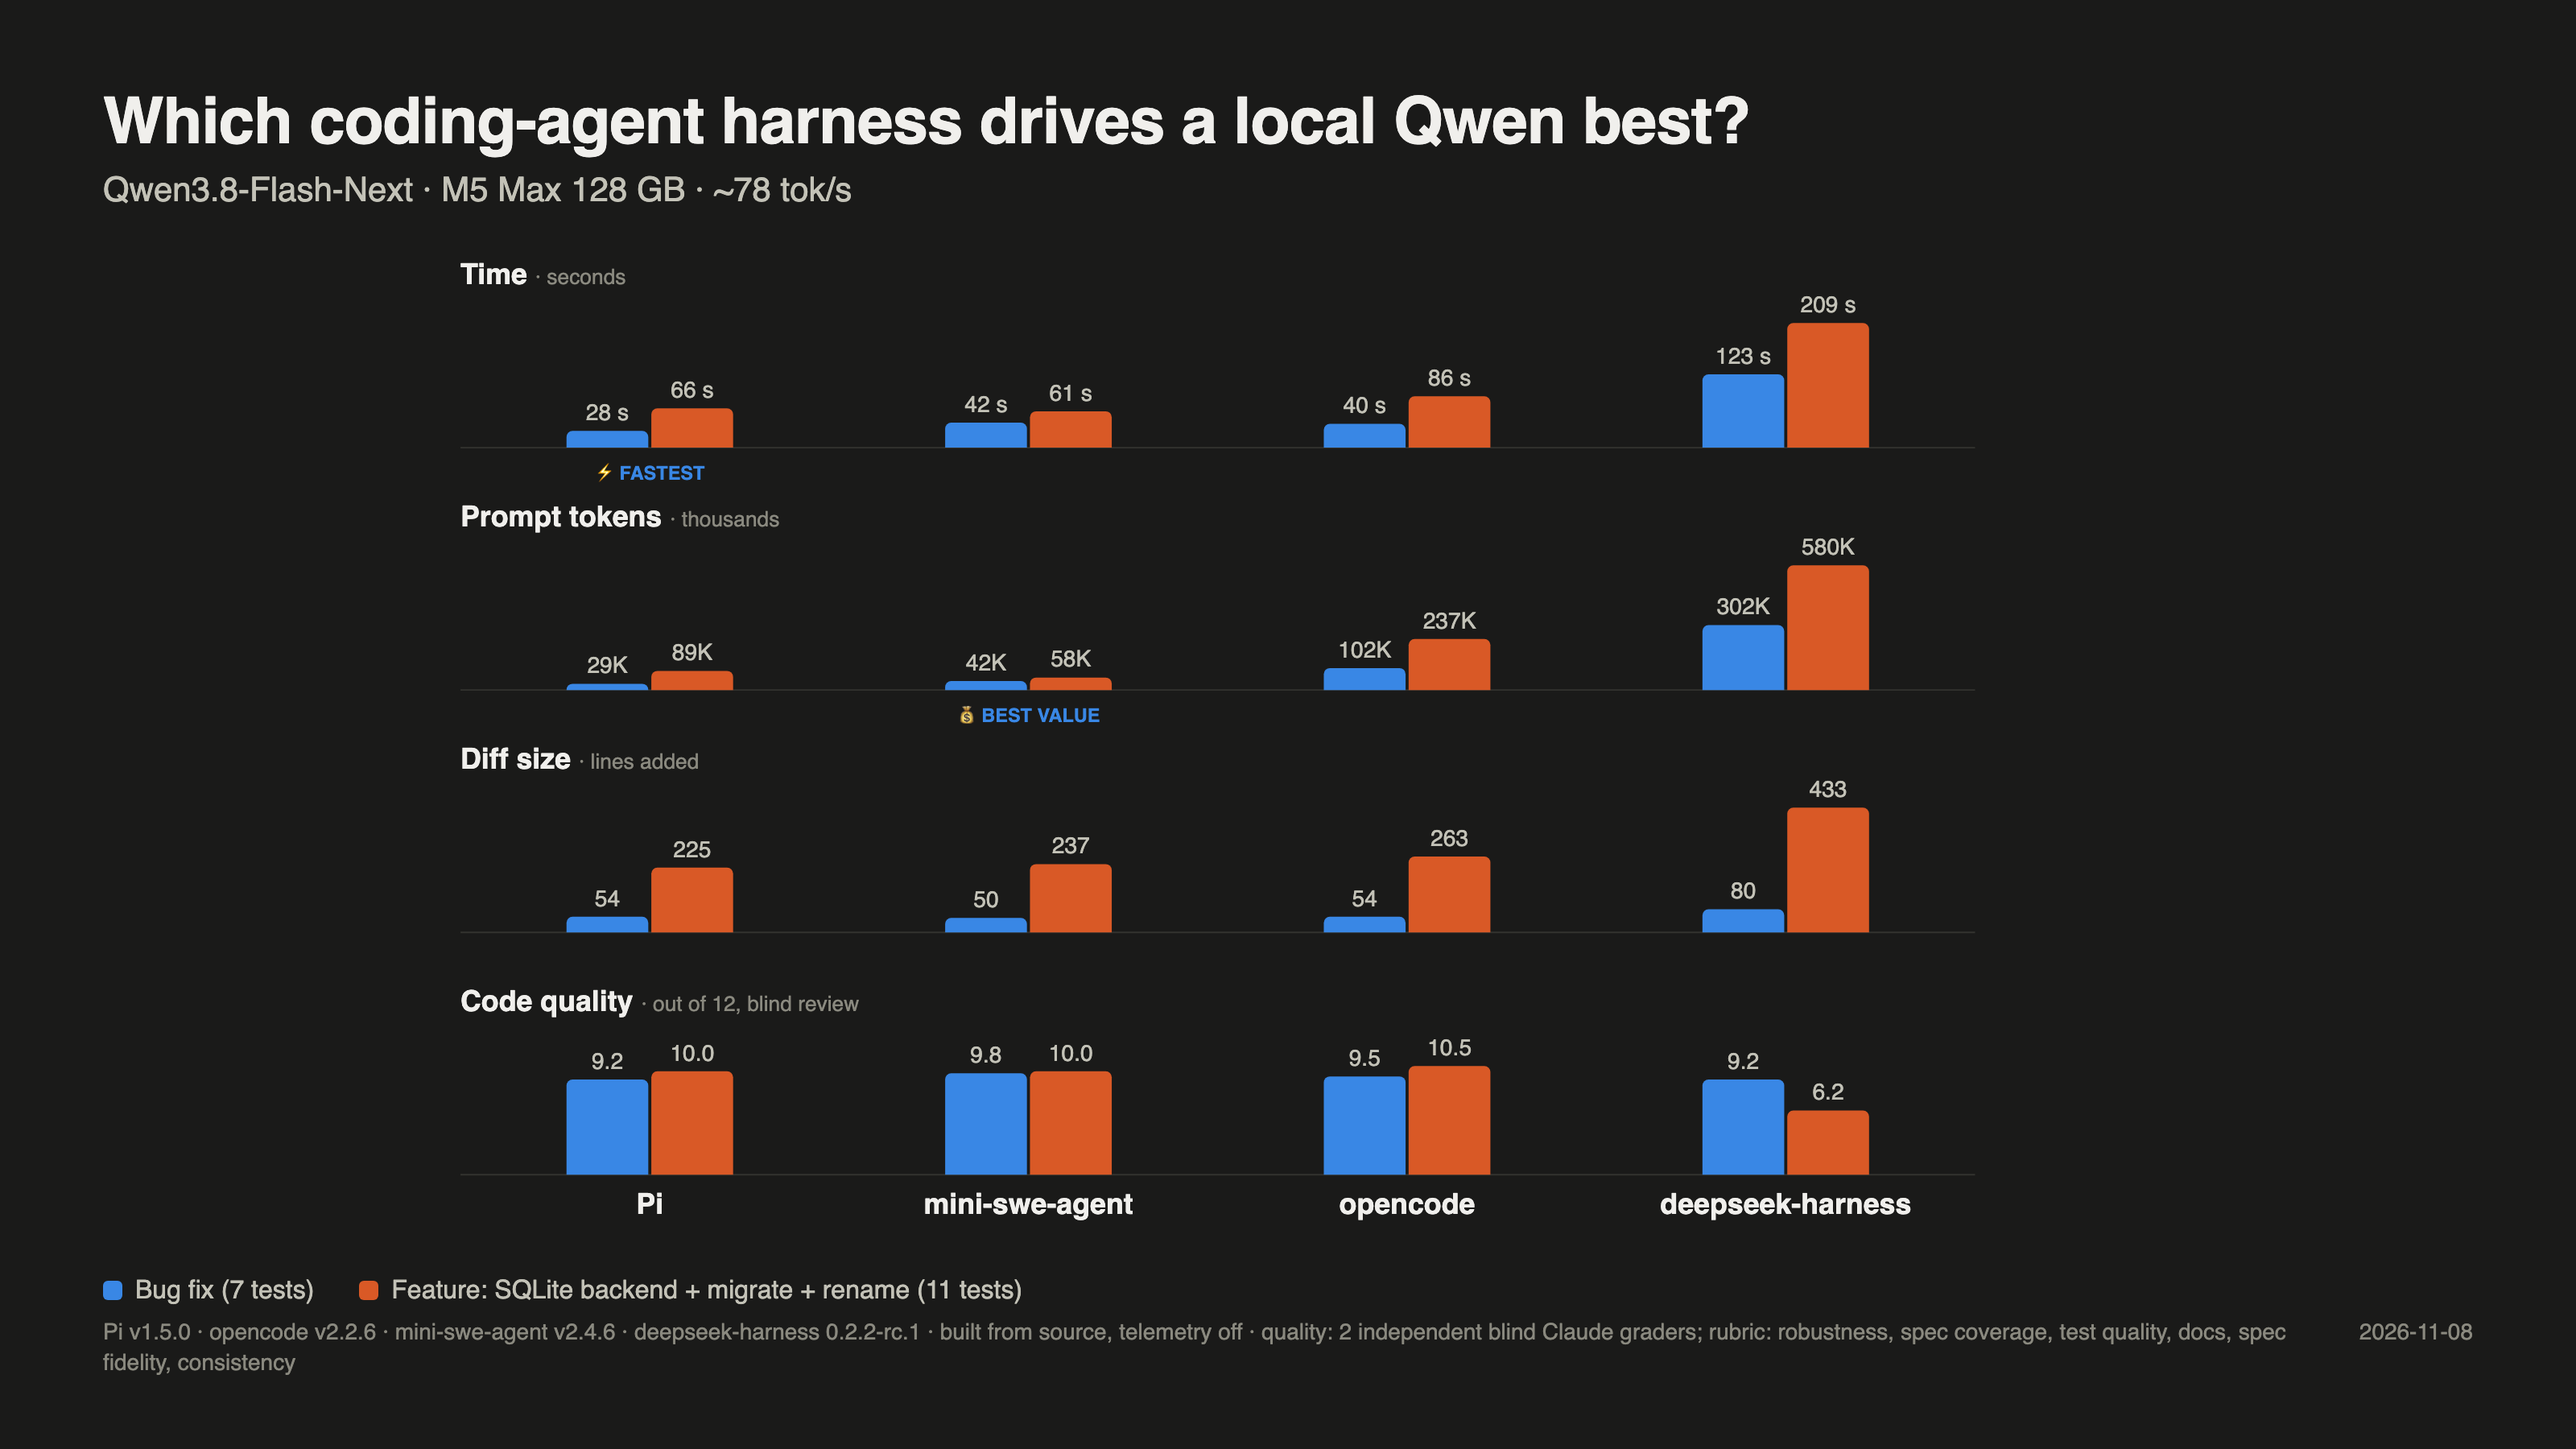
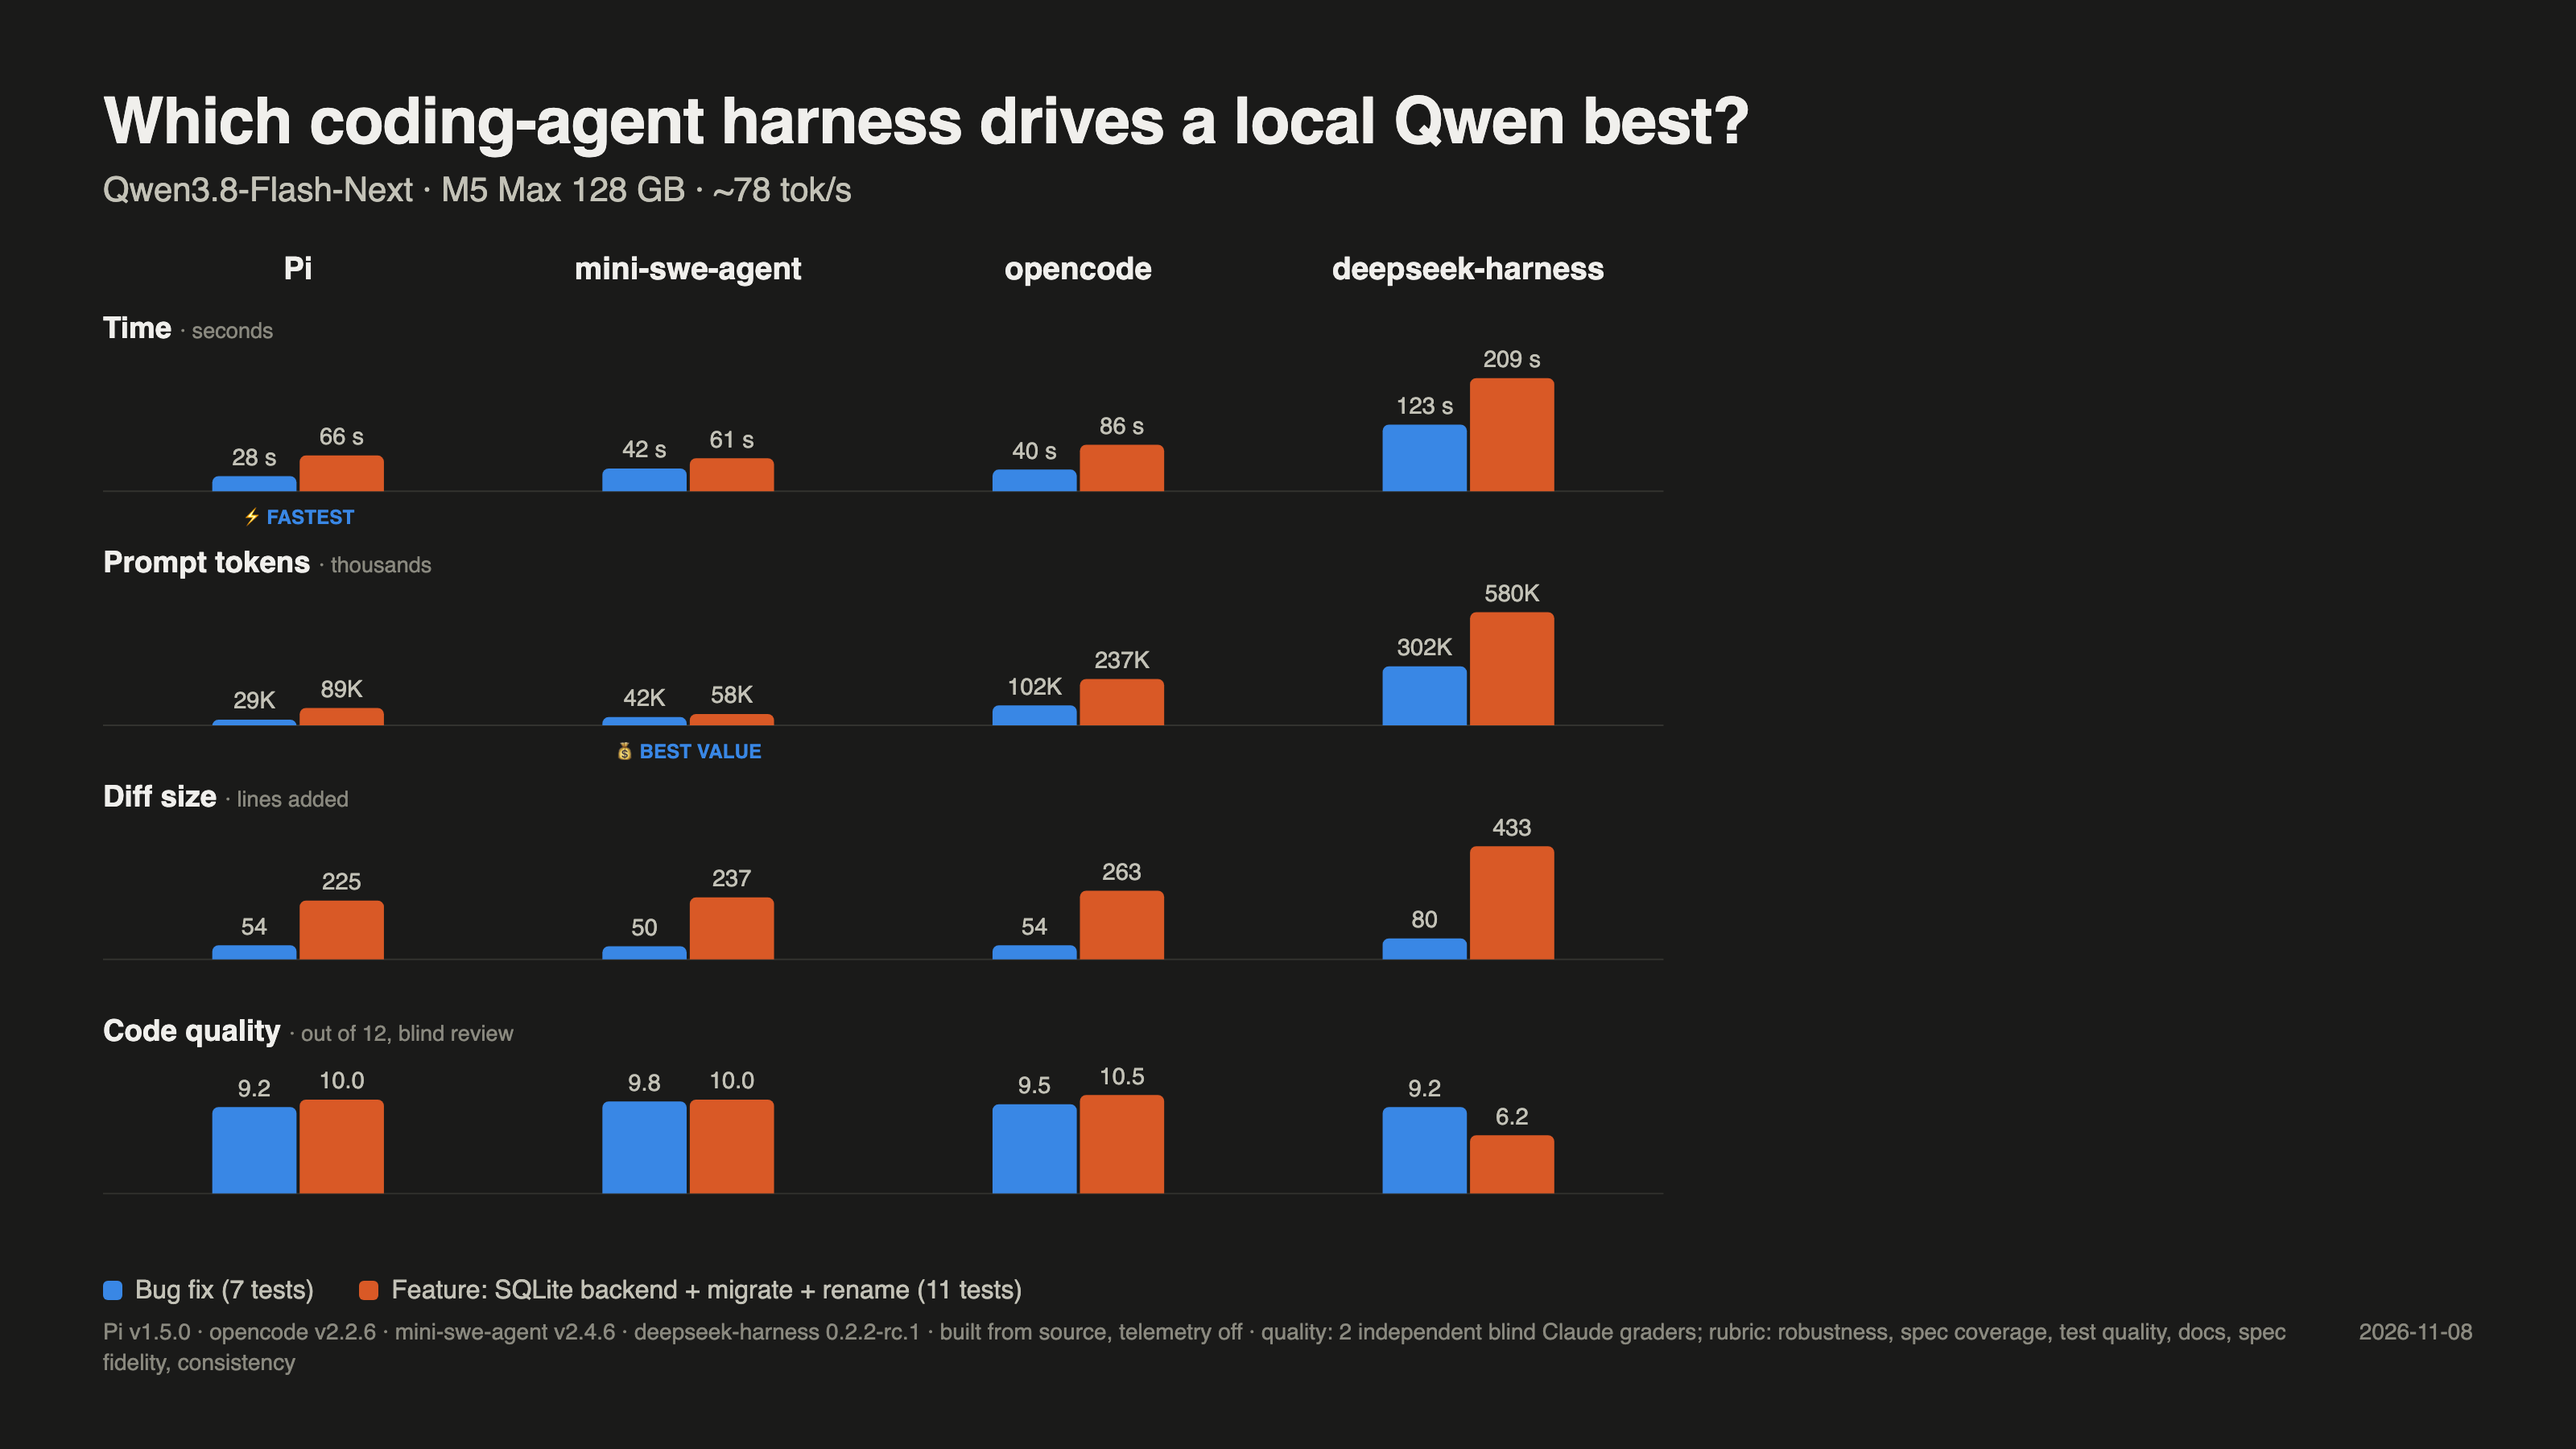
card: harness names on top, left-aligned plot

diff --git a/share/build2.py b/share/build2.py
@@ -30,14 +30,14 @@ svg{width:100%%;flex:1;margin-top:22px}
 text{font-family:inherit}
 </style></head><body>
 <h1>%(title)s</h1><div class="sub">%(sub)s</div>
-<svg id="g" viewBox="0 0 1472 680" preserveAspectRatio="xMinYMin meet"></svg>
+<svg id="g" viewBox="0 0 1472 660" preserveAspectRatio="xMinYMin meet"></svg>
 <div class="legend"><span><i style="background:var(--s1)"></i>%(lA)s</span><span><i style="background:var(--s2)"></i>%(lB)s</span></div>
 <div class="foot"><span>%(foot)s</span><span style="white-space:nowrap">2026-11-08</span></div>
 <script>
 const H=%(H)s, M=%(M)s, ROWS=%(rows)s, badges={0:[0,"%(b1)s"],1:[1,"%(b2)s"]};
 const keys=["time","tok","lines","qual"], fmt=[v=>v+" s",v=>v+"K",v=>v,v=>v.toFixed(1)];
 const css=getComputedStyle(document.documentElement),c=k=>css.getPropertyValue(k);
-const W=1472,PLOTW=1000,X0=(W-PLOTW)/2,TOP=10,ROWH=160,COLW=PLOTW/4,BW=54,GAP=2,HEAD=40,BASE=10;
+const W=1472,PLOTW=1000,X0=0,TOP=44,ROWH=150,COLW=PLOTW/4,BW=54,GAP=2,HEAD=40,BASE=10;
 let s="";
 keys.forEach((k,r)=>{const d=M[k];const y0=TOP+r*ROWH, plotH=ROWH-HEAD-BASE-26, base=y0+HEAD+plotH;
  const max=k==="qual"?12.3:Math.max(...d.A,...d.B)*1.02;
@@ -47,7 +47,7 @@ keys.forEach((k,r)=>{const d=M[k];const y0=TOP+r*ROWH, plotH=ROWH-HEAD-BASE-26, 
   [["A","--s1",-BW-GAP/2],["B","--s2",GAP/2]].forEach(([t,col,off])=>{const v=d[t][i],hh=Math.max(3,plotH*v/max),x=cx+off,y=base-hh;
    s+=`<path d="M${x},${base} V${y+4} a4,4 0 0 1 4,-4 H${x+BW-4} a4,4 0 0 1 4,4 V${base} Z" fill="${c(col)}"/>`;
    s+=`<text x="${x+BW/2}" y="${y-7}" text-anchor="middle" font-size="15" fill="${c('--t2')}">${fmt[r](v)}</text>`;});
-  if(r===3){s+=`<text x="${cx}" y="${base+26}" text-anchor="middle" font-size="19" font-weight="600" fill="${c('--t1')}">${h}</text>`;}
+  if(r===0){s+=`<text x="${cx}" y="22" text-anchor="middle" font-size="20" font-weight="700" fill="${c('--t1')}">${h}</text>`;}
   if(badges[r]&&badges[r][0]===i){s+=`<text x="${cx}" y="${base+21}" text-anchor="middle" font-size="12.5" font-weight="700" fill="${c('--s1')}">${badges[r][1]}</text>`;}
  });});
 document.getElementById("g").innerHTML=s;
